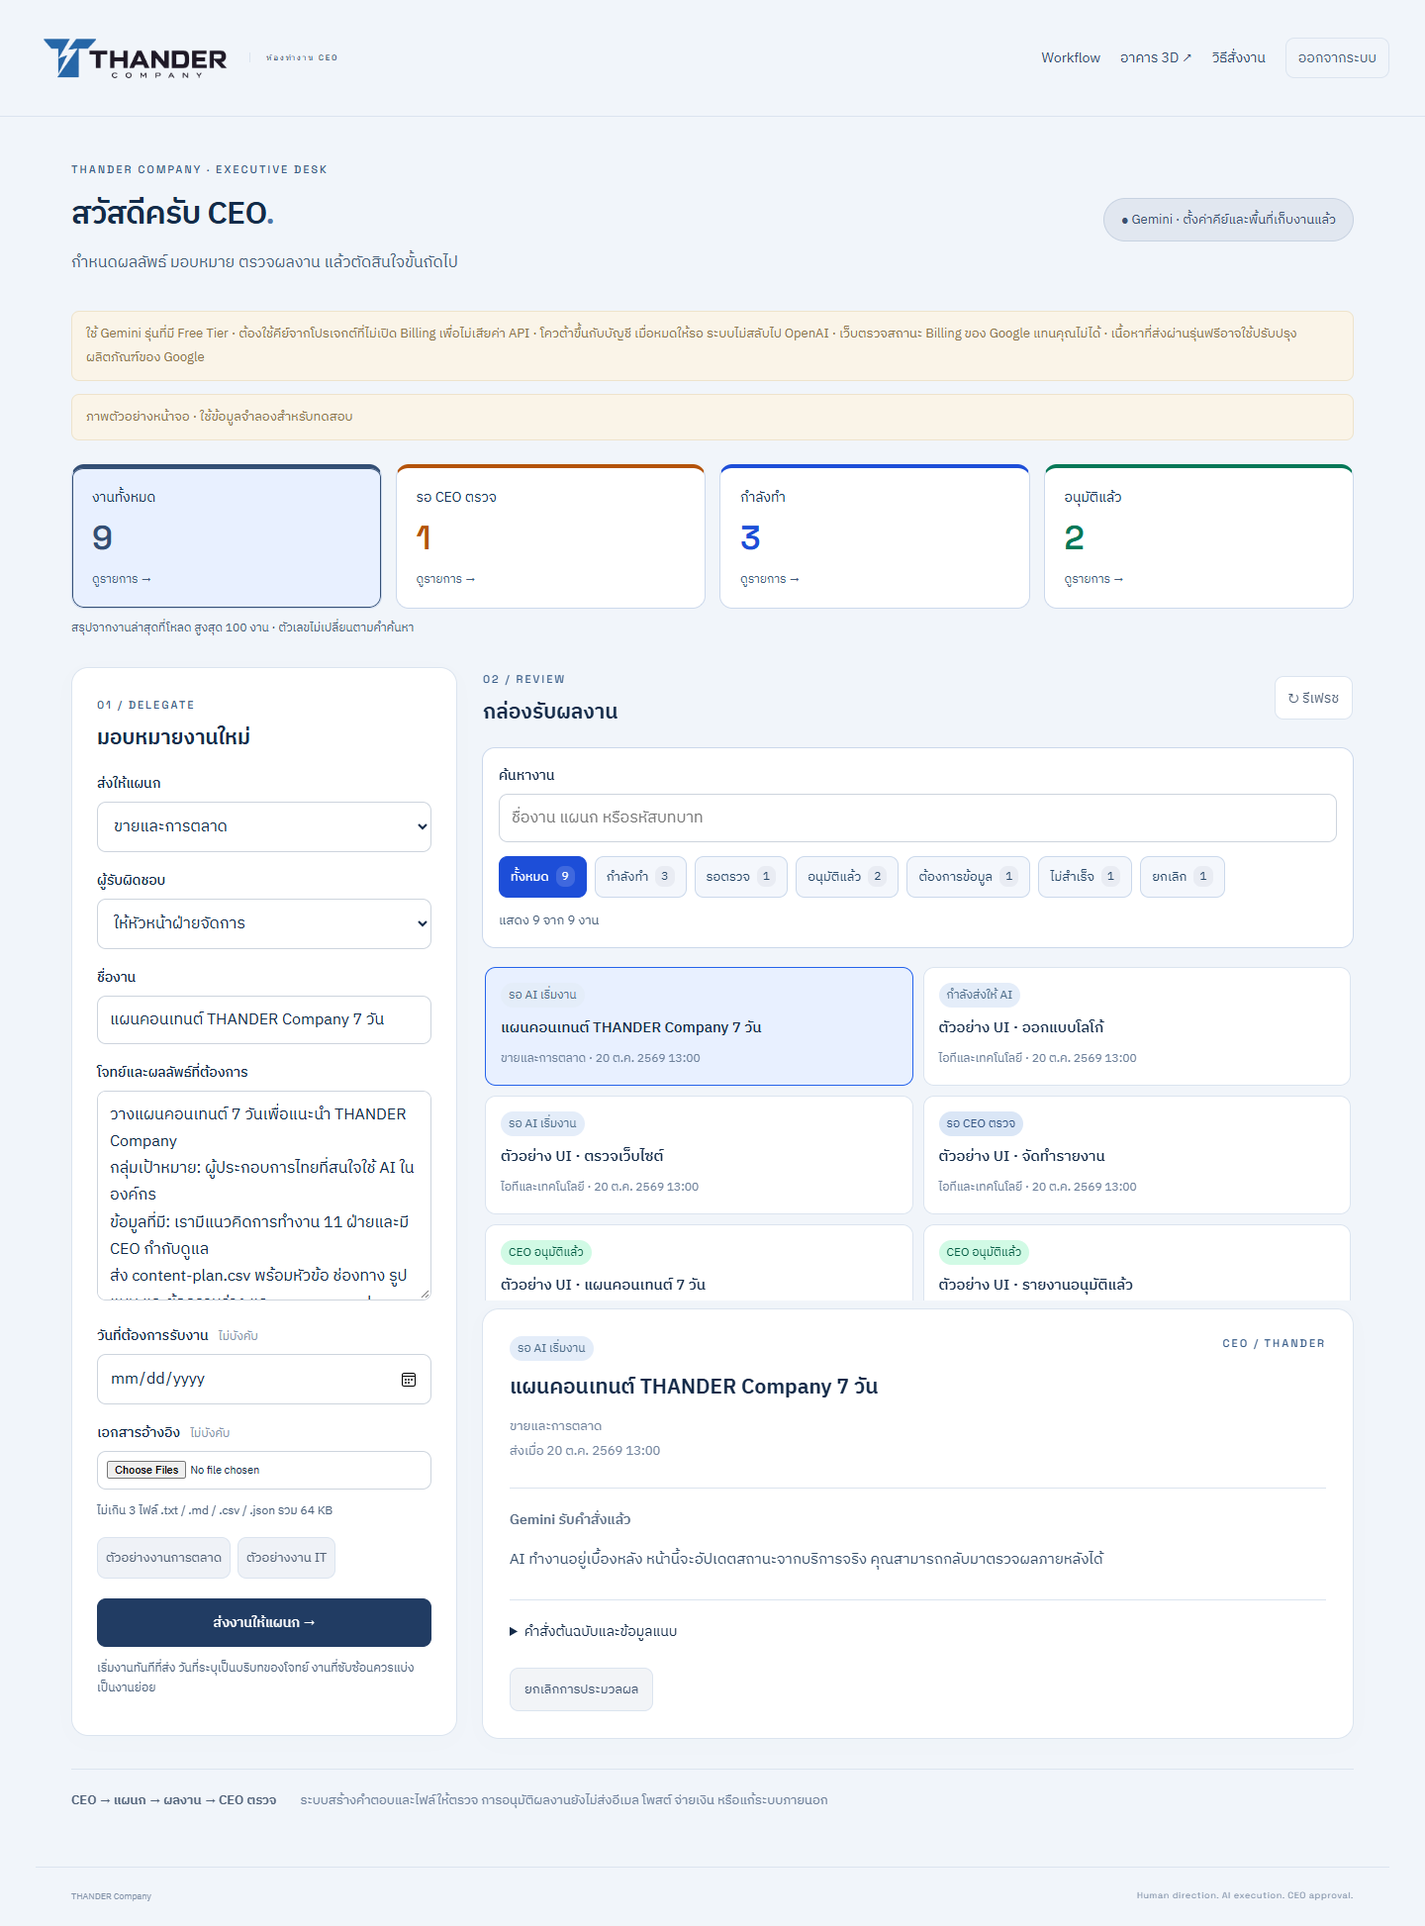
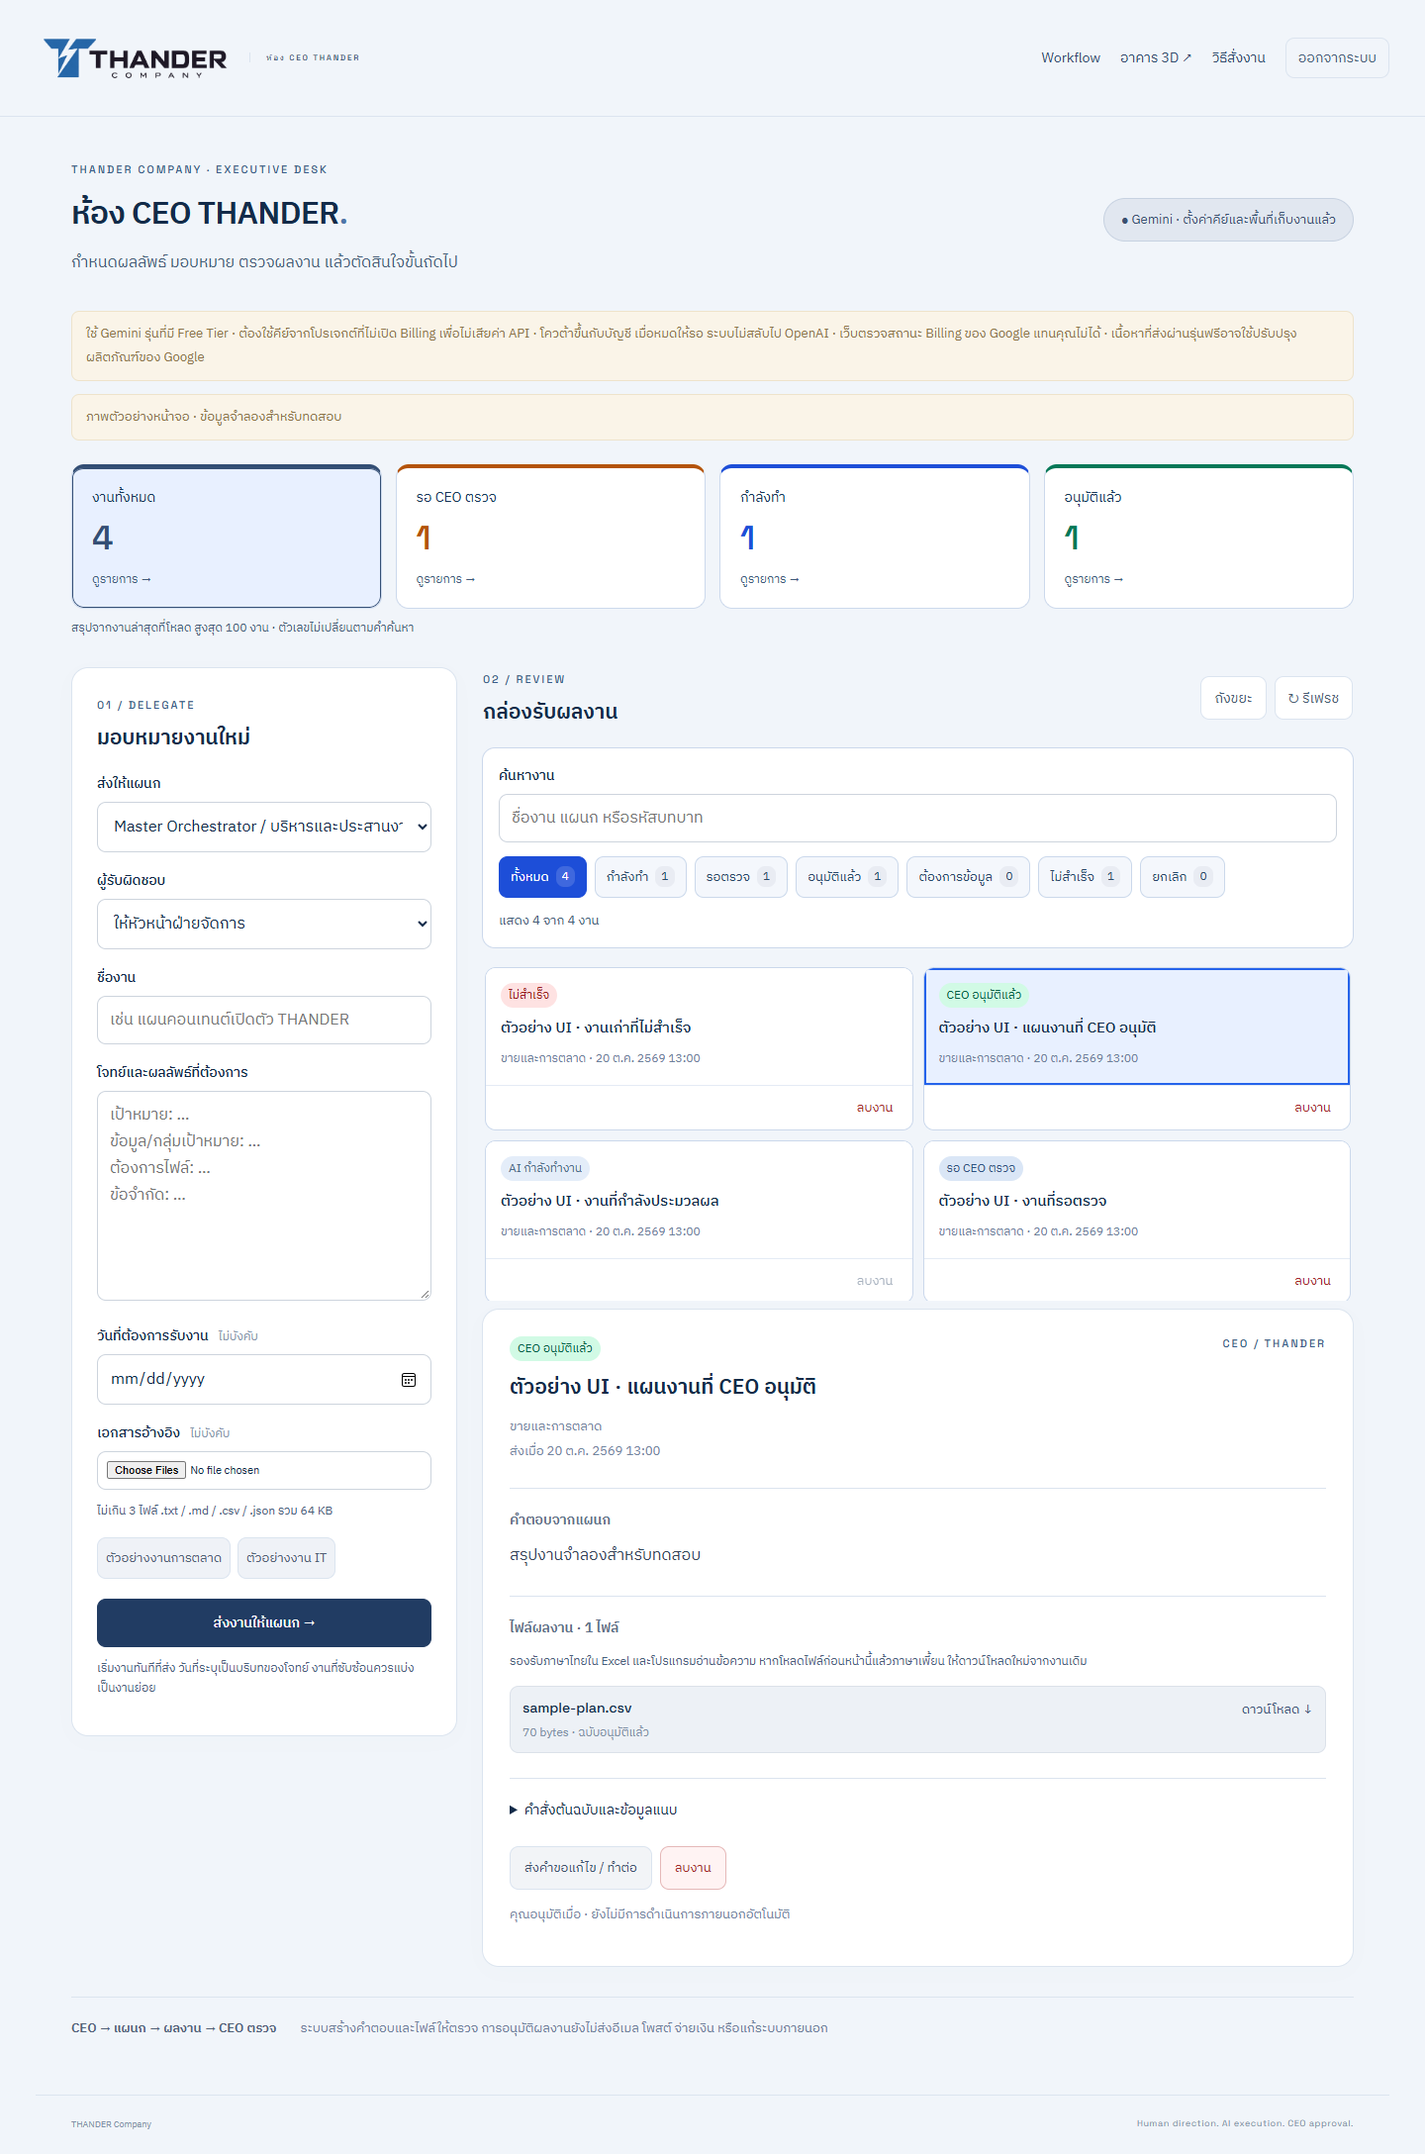
Show CEO THANDER office and job trash controls

diff --git a/Portfolio.html b/Portfolio.html
@@ -3445,7 +3445,7 @@ a:focus-visible, button:focus-visible, input:focus-visible { outline: 2px solid 
           <div style="padding:1.75rem;">
             <span style="display:inline-block;font-size:0.68rem;font-weight:700;letter-spacing:0.12em;color:#93bfff;border:1px solid #93bfff44;border-radius:99px;padding:0.25rem 0.75rem;margin-bottom:1rem;">3D Campus · Workflow · CEO Workspace</span>
             <h3 class="bento-title" style="margin-bottom:0.65rem;">THANDER Company</h3>
-            <p style="font-size:0.9rem;line-height:1.85;color:rgba(248,250,252,0.72);margin:0 0 1.25rem;">สำนักงานใหญ่ 3D โทนน้ำเงิน 4 ชั้น 11 ฝ่าย 64 บทบาท พร้อมคติ “คิดให้ไกล สร้างให้จริง ก้าวสู่อนาคต” ปรับอาคารให้เด่นขึ้นบนมือถือ และพับกรอบรายละเอียดเพื่อเห็นผังภายในครบทุกชั้น เปิดดูแผนกและหน้าที่ได้เมื่อต้องการ มี Workflow และไดอะแกรม SVG อธิบายการทำงานทุกฝ่าย ห้องทำงาน CEO ส่วนตัวมีตัวเลขสรุป ค้นหา และกรองสถานะงาน พร้อมสั่งงาน Gemini ขอแก้ไข ตรวจรับ และดาวน์โหลดไฟล์ภาษาไทยสำหรับ Excel มีตัวอย่างแผนคอนเทนต์ 7 วันให้ทดลองโดยไม่ใช้ AI ส่วนงาน AI จริงใช้โควต้า Free Tier ของโปรเจกต์ Google ที่ไม่เปิด Billing และไม่สลับไป OpenAI</p>
+            <p style="font-size:0.9rem;line-height:1.85;color:rgba(248,250,252,0.72);margin:0 0 1.25rem;">สำนักงานใหญ่ 3D โทนน้ำเงิน 4 ชั้น 11 ฝ่าย 64 บทบาท พร้อมคติ “คิดให้ไกล สร้างให้จริง ก้าวสู่อนาคต” ปรับอาคารให้เด่นขึ้นบนมือถือ และพับกรอบรายละเอียดเพื่อเห็นผังภายในครบทุกชั้น เปิดดูแผนกและหน้าที่ได้เมื่อต้องการ มี Workflow และไดอะแกรม SVG อธิบายการทำงานทุกฝ่าย ห้อง CEO THANDER ชั้น 1 เชื่อมพื้นที่ทำงานส่วนตัว มีตัวเลขสรุป ค้นหา กรอง ลบงาน และกู้คืนจากถังขยะ พร้อมสั่งงาน Gemini ขอแก้ไข ตรวจรับ และดาวน์โหลดไฟล์ภาษาไทยสำหรับ Excel มีตัวอย่างแผนคอนเทนต์ 7 วันให้ทดลองโดยไม่ใช้ AI ส่วนงาน AI จริงใช้โควต้า Free Tier ของโปรเจกต์ Google ที่ไม่เปิด Billing และไม่สลับไป OpenAI</p>
             <div style="display:flex;flex-wrap:wrap;gap:0.4rem;margin-bottom:1.5rem;">
               <span style="font-size:0.7rem;padding:0.25rem 0.7rem;border:1px solid #93bfff4d;color:#93bfff;border-radius:99px;">Three.js</span><span style="font-size:0.7rem;padding:0.25rem 0.7rem;border:1px solid #93bfff4d;color:#93bfff;border-radius:99px;">Gemini API</span><span style="font-size:0.7rem;padding:0.25rem 0.7rem;border:1px solid #93bfff4d;color:#93bfff;border-radius:99px;">Vercel Functions</span><span style="font-size:0.7rem;padding:0.25rem 0.7rem;border:1px solid #93bfff4d;color:#93bfff;border-radius:99px;">Private Blob</span>
             </div>
@@ -3453,6 +3453,7 @@ a:focus-visible, button:focus-visible, input:focus-visible { outline: 2px solid 
               <a href="https://thander-company-ai-campus.vercel.app/" target="_blank" rel="noopener" style="display:inline-flex;align-items:center;background:#93bfff1a;border:1px solid #93bfff4d;color:#93bfff;padding:0.55rem 1.1rem;border-radius:8px;font-size:0.82rem;font-weight:600;">สำรวจบริษัท 3D ↗</a>
               <a href="https://thander-company-ai-campus.vercel.app/workflow.html#practiceLab" target="_blank" rel="noopener" style="color:#93bfff;font-size:0.82rem;text-decoration:underline;text-underline-offset:3px;">ลองสั่งงานตัวอย่างและรับไฟล์ ↗</a>
               <a href="https://thander-company-ai-campus.vercel.app/#floor=1" target="_blank" rel="noopener" style="color:#93bfff;font-size:0.82rem;">ดูผังภายในทั้งชั้น ↗</a>
+              <a href="https://thander-company-ai-campus.vercel.app/#ceo" target="_blank" rel="noopener" style="color:#93bfff;font-size:0.82rem;">เข้าห้อง CEO THANDER ↗</a>
               <a href="images/projects/thander-ceo-overview.png" target="_blank" rel="noopener" style="color:#93bfff;font-size:0.82rem;">ภาพตัวอย่างหน้า CEO ↗</a>
               <span style="font-size:0.7rem;color:#94a3b8;">Source repository: Private</span>
             </div>

diff --git a/index.html b/index.html
@@ -3445,7 +3445,7 @@ a:focus-visible, button:focus-visible, input:focus-visible { outline: 2px solid 
           <div style="padding:1.75rem;">
             <span style="display:inline-block;font-size:0.68rem;font-weight:700;letter-spacing:0.12em;color:#93bfff;border:1px solid #93bfff44;border-radius:99px;padding:0.25rem 0.75rem;margin-bottom:1rem;">3D Campus · Workflow · CEO Workspace</span>
             <h3 class="bento-title" style="margin-bottom:0.65rem;">THANDER Company</h3>
-            <p style="font-size:0.9rem;line-height:1.85;color:rgba(248,250,252,0.72);margin:0 0 1.25rem;">สำนักงานใหญ่ 3D โทนน้ำเงิน 4 ชั้น 11 ฝ่าย 64 บทบาท พร้อมคติ “คิดให้ไกล สร้างให้จริง ก้าวสู่อนาคต” ปรับอาคารให้เด่นขึ้นบนมือถือ และพับกรอบรายละเอียดเพื่อเห็นผังภายในครบทุกชั้น เปิดดูแผนกและหน้าที่ได้เมื่อต้องการ มี Workflow และไดอะแกรม SVG อธิบายการทำงานทุกฝ่าย ห้องทำงาน CEO ส่วนตัวมีตัวเลขสรุป ค้นหา และกรองสถานะงาน พร้อมสั่งงาน Gemini ขอแก้ไข ตรวจรับ และดาวน์โหลดไฟล์ภาษาไทยสำหรับ Excel มีตัวอย่างแผนคอนเทนต์ 7 วันให้ทดลองโดยไม่ใช้ AI ส่วนงาน AI จริงใช้โควต้า Free Tier ของโปรเจกต์ Google ที่ไม่เปิด Billing และไม่สลับไป OpenAI</p>
+            <p style="font-size:0.9rem;line-height:1.85;color:rgba(248,250,252,0.72);margin:0 0 1.25rem;">สำนักงานใหญ่ 3D โทนน้ำเงิน 4 ชั้น 11 ฝ่าย 64 บทบาท พร้อมคติ “คิดให้ไกล สร้างให้จริง ก้าวสู่อนาคต” ปรับอาคารให้เด่นขึ้นบนมือถือ และพับกรอบรายละเอียดเพื่อเห็นผังภายในครบทุกชั้น เปิดดูแผนกและหน้าที่ได้เมื่อต้องการ มี Workflow และไดอะแกรม SVG อธิบายการทำงานทุกฝ่าย ห้อง CEO THANDER ชั้น 1 เชื่อมพื้นที่ทำงานส่วนตัว มีตัวเลขสรุป ค้นหา กรอง ลบงาน และกู้คืนจากถังขยะ พร้อมสั่งงาน Gemini ขอแก้ไข ตรวจรับ และดาวน์โหลดไฟล์ภาษาไทยสำหรับ Excel มีตัวอย่างแผนคอนเทนต์ 7 วันให้ทดลองโดยไม่ใช้ AI ส่วนงาน AI จริงใช้โควต้า Free Tier ของโปรเจกต์ Google ที่ไม่เปิด Billing และไม่สลับไป OpenAI</p>
             <div style="display:flex;flex-wrap:wrap;gap:0.4rem;margin-bottom:1.5rem;">
               <span style="font-size:0.7rem;padding:0.25rem 0.7rem;border:1px solid #93bfff4d;color:#93bfff;border-radius:99px;">Three.js</span><span style="font-size:0.7rem;padding:0.25rem 0.7rem;border:1px solid #93bfff4d;color:#93bfff;border-radius:99px;">Gemini API</span><span style="font-size:0.7rem;padding:0.25rem 0.7rem;border:1px solid #93bfff4d;color:#93bfff;border-radius:99px;">Vercel Functions</span><span style="font-size:0.7rem;padding:0.25rem 0.7rem;border:1px solid #93bfff4d;color:#93bfff;border-radius:99px;">Private Blob</span>
             </div>
@@ -3453,6 +3453,7 @@ a:focus-visible, button:focus-visible, input:focus-visible { outline: 2px solid 
               <a href="https://thander-company-ai-campus.vercel.app/" target="_blank" rel="noopener" style="display:inline-flex;align-items:center;background:#93bfff1a;border:1px solid #93bfff4d;color:#93bfff;padding:0.55rem 1.1rem;border-radius:8px;font-size:0.82rem;font-weight:600;">สำรวจบริษัท 3D ↗</a>
               <a href="https://thander-company-ai-campus.vercel.app/workflow.html#practiceLab" target="_blank" rel="noopener" style="color:#93bfff;font-size:0.82rem;text-decoration:underline;text-underline-offset:3px;">ลองสั่งงานตัวอย่างและรับไฟล์ ↗</a>
               <a href="https://thander-company-ai-campus.vercel.app/#floor=1" target="_blank" rel="noopener" style="color:#93bfff;font-size:0.82rem;">ดูผังภายในทั้งชั้น ↗</a>
+              <a href="https://thander-company-ai-campus.vercel.app/#ceo" target="_blank" rel="noopener" style="color:#93bfff;font-size:0.82rem;">เข้าห้อง CEO THANDER ↗</a>
               <a href="images/projects/thander-ceo-overview.png" target="_blank" rel="noopener" style="color:#93bfff;font-size:0.82rem;">ภาพตัวอย่างหน้า CEO ↗</a>
               <span style="font-size:0.7rem;color:#94a3b8;">Source repository: Private</span>
             </div>

diff --git a/README.md b/README.md
@@ -43,7 +43,7 @@
 
 | Project | Description |
 |---|---|
-| [THANDER Company](https://thander-company-ai-campus.vercel.app/) | สำนักงานใหญ่ 3D 4 ชั้น 11 ฝ่าย 64 บทบาท คติ “คิดให้ไกล สร้างให้จริง ก้าวสู่อนาคต” มุมมองมือถือใหญ่ขึ้น ผังทุกชั้นเห็นครบด้วยกรอบรายละเอียดที่พับได้ พร้อม [Workflow และหน้าที่แต่ละฝ่าย](https://thander-company-ai-campus.vercel.app/workflow.html#departmentDirectory) และห้องทำงาน CEO ส่วนตัวที่มีตัวเลขสรุป ค้นหาและกรองสถานะงาน สั่ง Gemini ขอแก้ไข ตรวจรับ และดาวน์โหลดภาษาไทยสำหรับ Excel รวม [ตัวอย่างสั่งงานแบบไม่เรียก AI](https://thander-company-ai-campus.vercel.app/workflow.html#practiceLab) (Free Tier ต้องใช้โปรเจกต์ Google ที่ไม่เปิด Billing; โควต้าตามบัญชี) (Private source) |
+| [THANDER Company](https://thander-company-ai-campus.vercel.app/) | สำนักงานใหญ่ 3D 4 ชั้น 11 ฝ่าย 64 บทบาท คติ “คิดให้ไกล สร้างให้จริง ก้าวสู่อนาคต” มุมมองมือถือใหญ่ขึ้น ผังทุกชั้นเห็นครบด้วยกรอบรายละเอียดที่พับได้ พร้อม [Workflow และหน้าที่แต่ละฝ่าย](https://thander-company-ai-campus.vercel.app/workflow.html#departmentDirectory) และห้องทำงาน CEO ส่วนตัวที่มีตัวเลขสรุป ค้นหาและกรองสถานะงาน ลบ/กู้คืนผ่านถังขยะ พร้อมห้อง CEO THANDER ในชั้น 1 สั่ง Gemini ขอแก้ไข ตรวจรับ และดาวน์โหลดภาษาไทยสำหรับ Excel รวม [ตัวอย่างสั่งงานแบบไม่เรียก AI](https://thander-company-ai-campus.vercel.app/workflow.html#practiceLab) (Free Tier ต้องใช้โปรเจกต์ Google ที่ไม่เปิด Billing; โควต้าตามบัญชี) (Private source) |
 | [Thander Usage](https://thander-usage.vercel.app/) | Windows desktop robot companion for Claude/Codex usage, articulated greeting and interactive web demo. [Source](https://github.com/tanakrthum254614-max/thander-usage) |
 | [Gold Signal](https://github.com/tanakrthum254614-max/gold-signal) | แพลตฟอร์มสัญญาณการซื้อขายทองคำแบบเรียลไทม์ พร้อมผลทดสอบย้อนหลังและการเปิดเผยผลการซื้อขายจริง |
 | [IT Asset Tracker](https://github.com/tanakrthum254614-max/it-asset-tracker) | ระบบทะเบียนครุภัณฑ์ไอทีพร้อมป้าย QR และการติดตามการรับประกัน |
@@ -79,3 +79,5 @@ The THANDER campus project was transferred to Vercel team `thander2` using the o
 THANDER homepage motto updated to “คิดให้ไกล สร้างให้จริง ก้าวสู่อนาคต”; the project preview now shows the actual Thai motto and blue emphasis. Eight viewport sizes passed overflow/overlap checks without task or AI API calls.
 
 THANDER workspace update: added status summaries, combined search/status filters and a wrapping inbox. Interior details start collapsed across all four floors; overview cameras fit the plan around controls. Added a public full-plan screenshot and a clearly labeled CEO fixture preview. Sixteen day-mode floor/viewport checks, four night-mode floors, five CEO widths and mocked lifecycle interactions passed. No real task mutations or AI generation were used for these UI checks.
+
+THANDER update: job deletion with confirmation and a private recoverable trash, plus a dedicated 3D CEO THANDER office on floor 1 ([enter office](https://thander-company-ai-campus.vercel.app/#ceo)). Backend tests now total 36. Browser checks used fixtures only for destructive actions; no real company jobs were deleted and no AI generation was triggered. Updated home/CEO previews and added the office screenshot; CEO task previews use explicitly labeled sample data.
